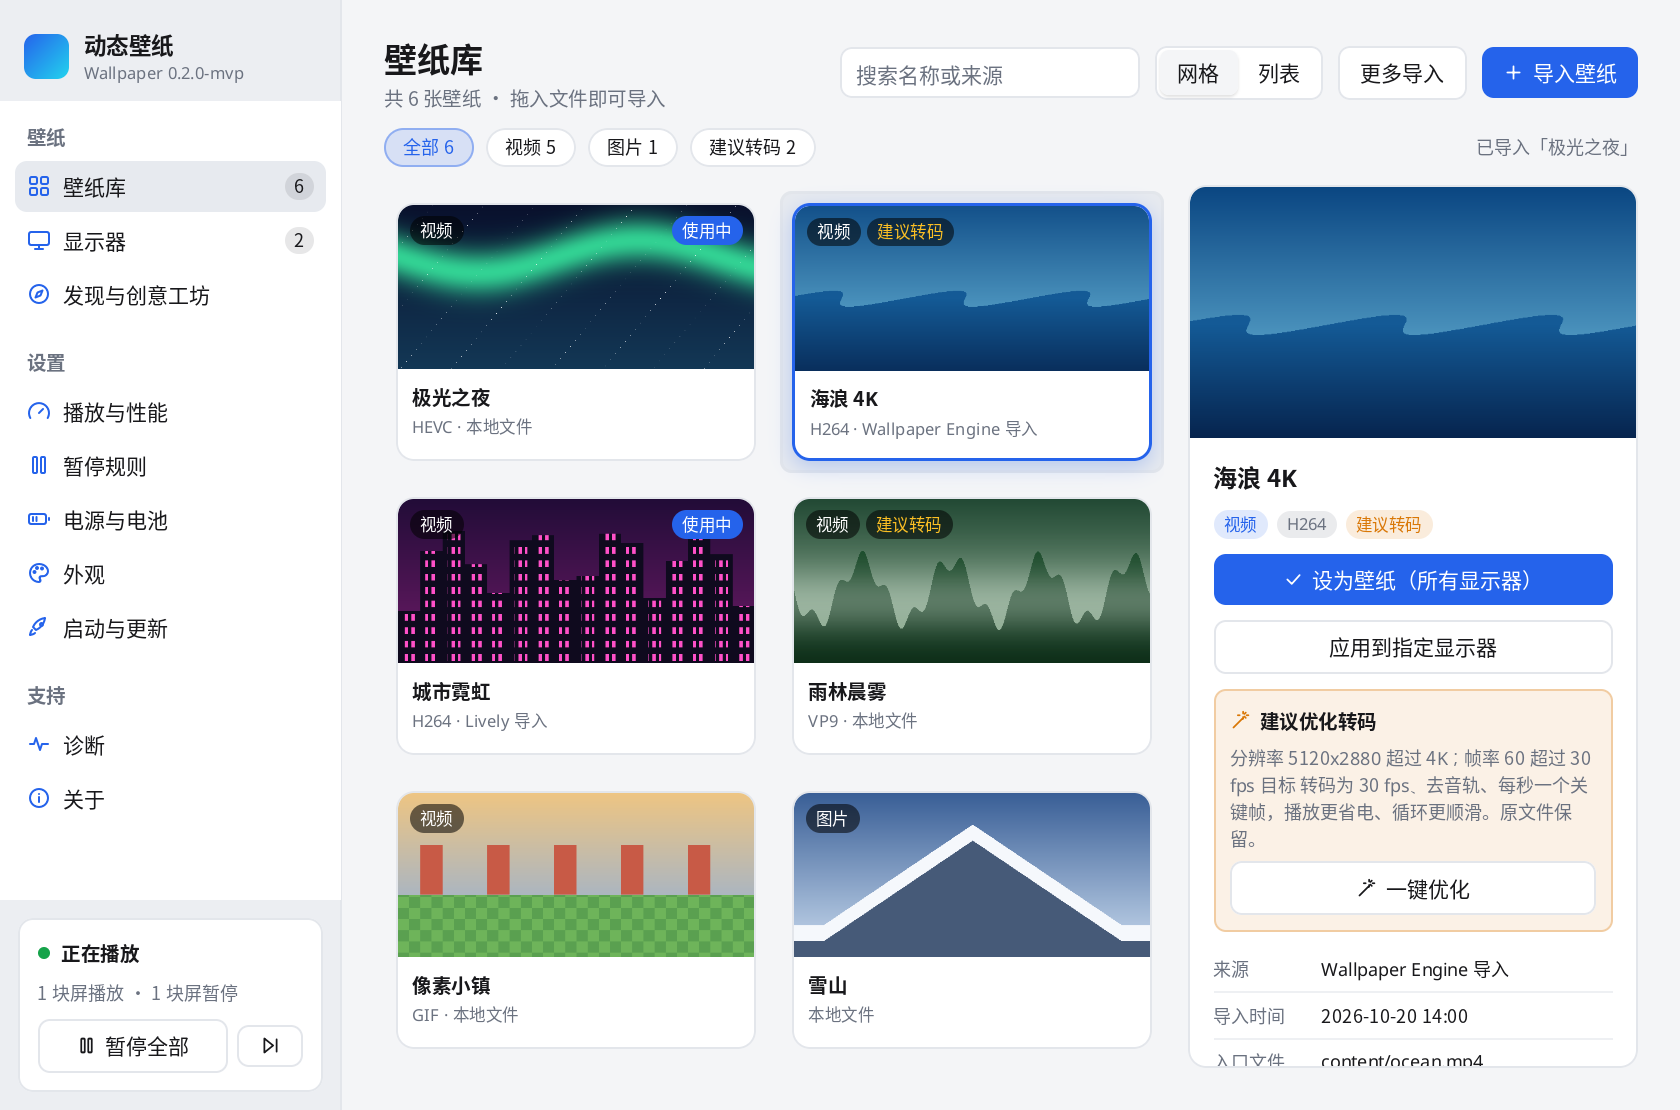
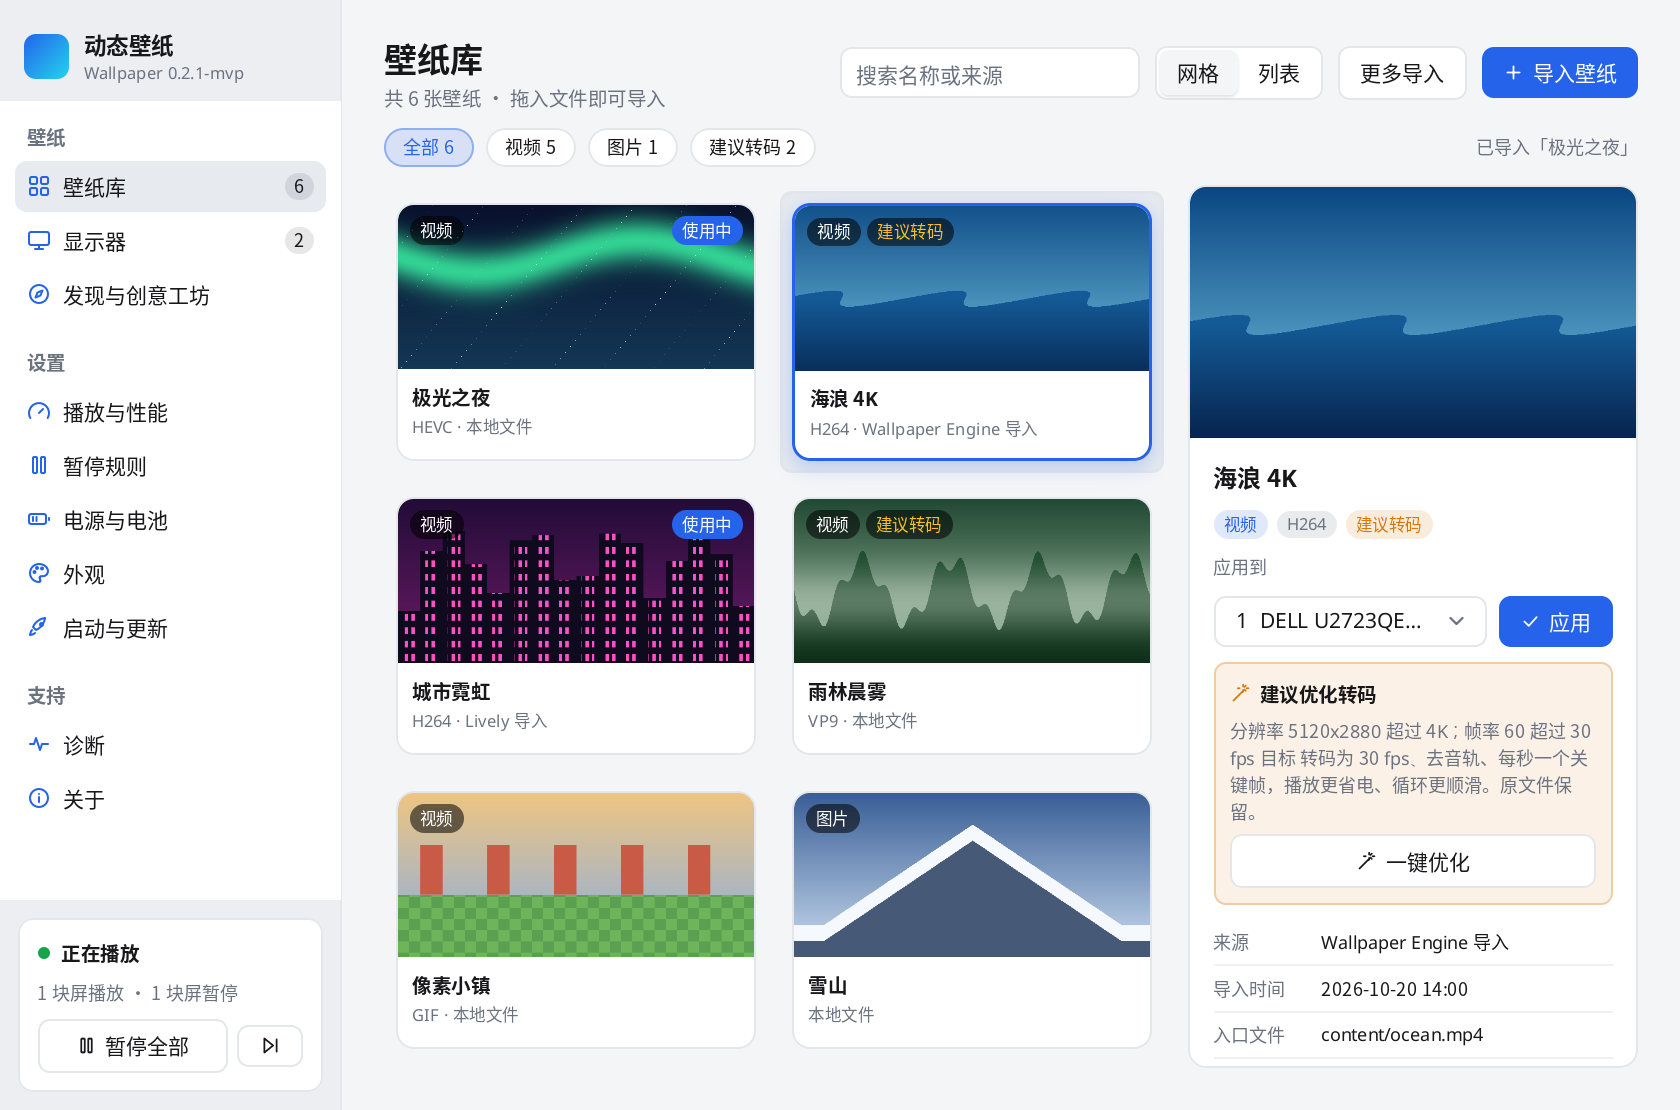
release: 0.2.1-mvp（README、CHANGELOG、截图）

Changed region(s): [[0.7119, 0.4901, 0.9595, 0.9802]]

diff --git a/README.md b/README.md
@@ -1,6 +1,6 @@
 # Wallpaper MVP（wallpaper-app）
 
-> 版本 **0.2.0-mvp**（预发布）。私有仓库，安装包见 GitHub Releases。
+> 版本 **0.2.1-mvp**（预发布）。私有仓库，安装包见 GitHub Releases。
 
 动态壁纸 MVP。它是 [`docs/design/`](docs/design/README.md) 里设计文档（第 02–17 章）和原型的正式实现。前期调研报告在 [`docs/research/`](docs/research/)：
 - [`wallpaper_research.md`](docs/research/wallpaper_research.md)：市场与竞品调研
@@ -117,7 +117,7 @@ internal/platform/macos    purego/objc 胶水
 |---|---|---|
 | F-01 桌面挂载、自检、重挂 | Win 已实现，Linux 已实现，mac 已实现但没跑过 | Win：24H2+ 走 Progman 下的 WS_EX_LAYERED 子窗口，插在 DefView 下面；旧版走 WorkerW。TaskbarCreated 和每 3 s 的健康检查都会触发 ShellRestarted，然后退避重挂。AC（≤3 s 恢复、5 次都成功）**需要真机** |
 | F-02 渲染器监管 | 已实现 | 退避序列 0.5/1/2/4/8… s，连续崩溃超过上限后进入 Failed 并显示首帧截图；Job Object（KILL_ON_JOB_CLOSE）；mpv 卡住检测。TDR 恢复**需要真机** |
-| F-03 每屏分配、热插拔 | 已实现 | Win 的稳定 ID 来自 IDesktopWallpaper 的 device path 哈希，失败时退回 `\\.\DISPLAYn`；WM_DISPLAYCHANGE 合并 500 ms 内的变化。Linux 只支持单屏。混合 DPI**需要真机** |
+| F-03 每屏分配、热插拔 | 已实现（0.2.1 修正，待 Win 真机复测） | 每屏壁纸和别名按**稳定 ID** 持久化：Win 取 DisplayConfig 的 monitorDevicePath → EnumDisplayDevices(EDD_GET_DEVICE_INTERFACE_NAME) → IDesktopWallpaper 路径，最后才用 GDI 名 `\\.\DISPLAYn`；mac 用 CGDisplay UUID；Linux 只支持单屏。0.2.0 的 ID 会自动迁移。名称：monitorFriendlyDeviceName → 显示器 DeviceString（"通用即插即用监视器"这类泛称不用）→ "显示器 N"；N 按物理排列（左→右、上→下）。WM_DISPLAYCHANGE 合并 500 ms 内的变化。混合 DPI**需要真机** |
 | F-04 自动暂停 | Win 已实现，mac 部分实现，Linux 部分实现 | Win：前台全屏、50 px 网格遮挡、锁屏、远程桌面、显示器关闭、睡眠、屏保，按屏判定。mac：CGWindowList 采样，连续 3 次一致才翻转，锁屏和睡眠由 mygo.Power 转发。Linux：没有全屏和遮挡探针。延迟和 CPU 的 AC**需要真机** |
 | F-05 电源策略 | 已实现（mac/MF 未真机验证） | 电池时可选 暂停 / 继续 / **限 15 fps**，低电量（默认 20%）进入 L4，Windows 省电模式、性能档位"省电"也限 15 fps。fps 上限：mpv 用 `vf @wpcap:fps=N` + hwdec 切到 `-copy` 变体（Linux 真 mpv 测得约 15 fps【实测】）；MF 后端节流 Transfer+Present；AVF 用 AVMutableVideoComposition（【推断】未真机）。不支持的后端会回退并在界面注明原因。mac：IOKit 电源类型 + NSProcessInfo 低电量模式和过热（serious/critical）每秒轮询（未真机）。省电效果**需要真机**测功耗 |
 | F-06 视频播放 | 已实现 | mpv 参数：Win 用 d3d11va + gpu-next/d3d11，`loop-file=inf`，静音，panscan 填满。硬解、丢帧、循环点**需要真机** |
@@ -129,14 +129,21 @@ internal/platform/macos    purego/objc 胶水
 | F-15 安装与更新 | 已实现（真机未验证） | NSIS 安装器（Wine 静默安装/卸载通过）；Ed25519 签名清单、SHA-256 增量下载、暂存到 `.update/`、重启应用、连续 2 次启动未标记成功即自动回滚，可手动回滚；`scripts/e2e-update.sh` 7/7 PASS【实测】。发布版没有内置公钥，所以线上更新默认不可用；macOS 按文件替换后代码签名是否仍有效**未验证**；签名证书只有钩子 |
 | F-16 诊断包 | 已实现 | 导出的 zip 里路径换成 sha256 前缀，标题类字段被去掉，mpv 日志只保留警告和错误；有自动化测试检查不泄露 |
 
+## 多显示器规则（0.2.1）
+
+- **导入只加入壁纸库**，不会改动任何显示器。可在"外观 → 导入后"改成"应用到当前显示器"（显示器页选中的那块，没选时为主屏）。
+- "应用到"一块显示器 = 写该屏的单独设置；"所有显示器" = 设为默认壁纸并清除所有单独设置；"默认壁纸"只影响没有单独设置的屏和以后新接入的屏。
+- 托盘"下一张"：每块屏各自换到下一张。
+- 别名按稳定 ID 存在 `assignments.json` 的 `aliases` 里，换接口顺序或重启后仍对应同一块屏；保存空名或与系统名称相同的名字等于恢复默认。
+
 ## 设置界面（0.2.0 重做）
 
 对标调研文档里 Wallpaper Engine、Lively、Wallnetic 等产品的布局：左侧导航 + 状态卡，右侧内容页。
 
 | 页面 | 内容 | 状态 |
 |---|---|---|
-| 壁纸库 | 网格/列表视图、类型筛选、搜索、详情面板（应用到屏幕、转码优化、删除确认）、拖放导入、"更多导入"菜单（文件 / .wpk / Lively / WE） | 已实现 |
-| 显示器 | 多屏布局画布、每屏卡片（当前壁纸、状态、暂停原因、fps 上限及说明） | 已实现 |
+| 壁纸库 | 网格/列表视图、类型筛选、搜索、详情面板（"应用到"：某一块显示器 / 所有显示器，默认是当前显示器；双击 = 应用到当前显示器；转码优化、删除确认）、拖放导入、"更多导入"菜单（文件 / .wpk / Lively / WE） | 已实现 |
+| 显示器 | 多屏布局画布 + 编号选择条（编号按物理排列）、每屏卡片：名称/重命名/恢复默认名称、单独壁纸或跟随默认、状态、暂停原因、fps 上限 | 已实现 |
 | 发现 | 网页 / Shader 壁纸、创意工坊等 v1 规划介绍 | 占位（"开发中"） |
 | 性能 | 性能档位、渲染后端、ffmpeg 路径 | 已实现；渲染分辨率等占位 |
 | 暂停规则 | 全屏、遮挡、锁屏、远程桌面等 | 已实现 |
